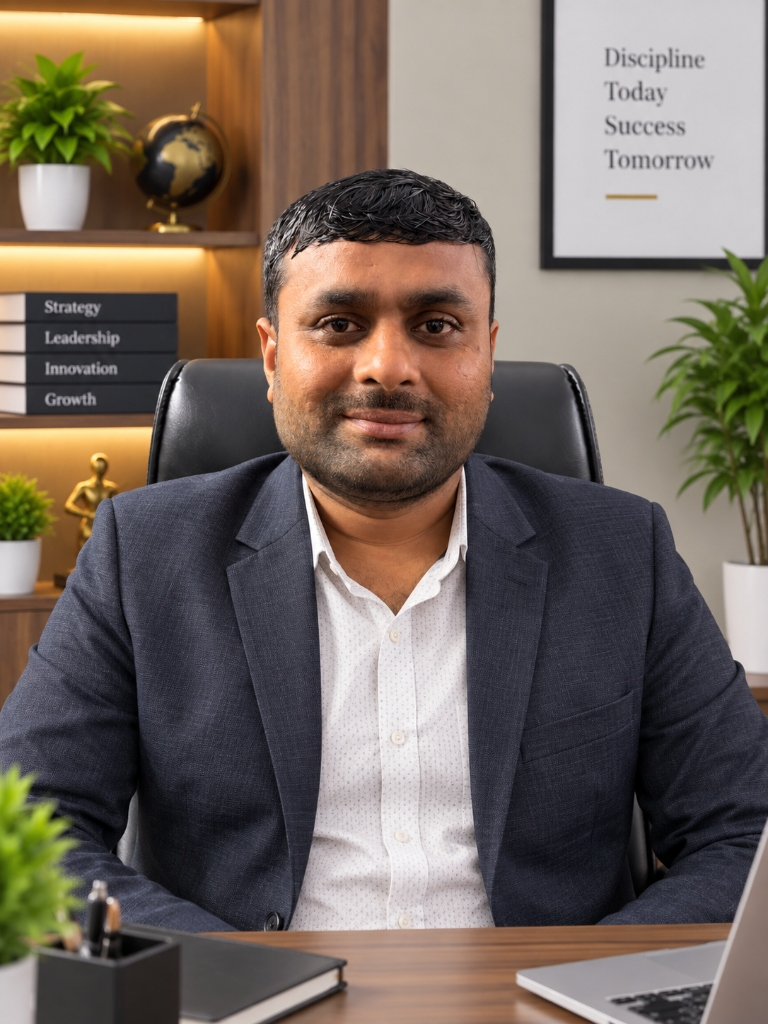
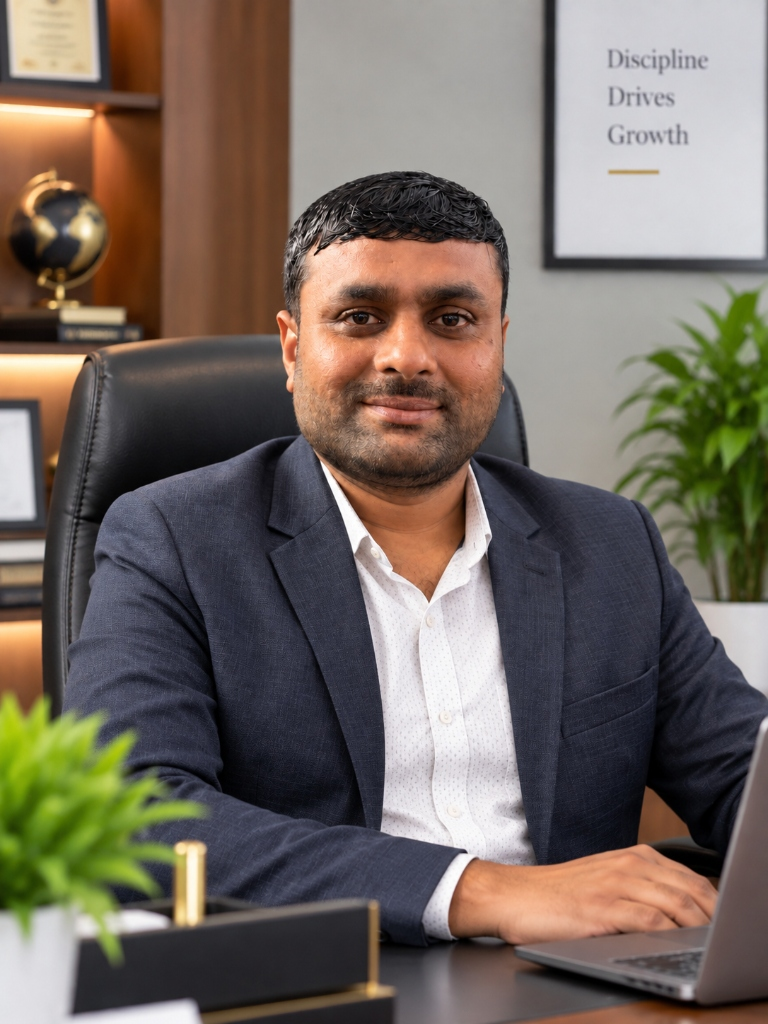
Update team portraits for Bhavarth Hapani, Dinesh Bhuva, Dhrupal Rangani, and Utkarsh Mishra

diff --git a/management.html b/management.html
@@ -12,7 +12,7 @@
 <meta http-equiv="Cache-Control" content="no-cache, no-store, must-revalidate">
 <meta http-equiv="Pragma" content="no-cache">
 <meta http-equiv="Expires" content="0">
-<link rel="stylesheet" href="styles.css?v=110">
+<link rel="stylesheet" href="styles.css?v=111">
 </head>
 <body>
 
@@ -198,7 +198,7 @@
 
     <div class="team-arch-card">
      <div class="team-photo-frame" tabindex="0">
-      <img src="images/team-dinesh-bhuva.jpg?v=4" alt="Mr. Dinesh Bhuva" class="team-photo-img" onerror="this.classList.add('is-hidden')">
+      <img src="images/team-dinesh-bhuva.jpg?v=5" alt="Mr. Dinesh Bhuva" class="team-photo-img" onerror="this.classList.add('is-hidden')">
       <div class="team-photo-placeholder" aria-hidden="true">
        <span class="avatar-badge-arch">DB</span>
       </div>
@@ -221,7 +221,7 @@
 
     <div class="team-arch-card">
      <div class="team-photo-frame" tabindex="0">
-      <img src="images/team-bhavarth-hapani.jpg?v=2" alt="Mr. Bhavarth Hapani" class="team-photo-img" onerror="this.classList.add('is-hidden')">
+      <img src="images/team-bhavarth-hapani.jpg?v=5" alt="Mr. Bhavarth Hapani" class="team-photo-img" onerror="this.classList.add('is-hidden')">
       <div class="team-photo-placeholder" aria-hidden="true">
        <span class="avatar-badge-arch">BH</span>
       </div>
@@ -267,7 +267,7 @@
 
     <div class="team-arch-card">
      <div class="team-photo-frame" tabindex="0">
-      <img src="images/team-dhrupal-rangani.jpg?v=4" alt="Mr. Dhrupal Rangani" class="team-photo-img" onerror="this.classList.add('is-hidden')">
+      <img src="images/team-dhrupal-rangani.jpg?v=5" alt="Mr. Dhrupal Rangani" class="team-photo-img" onerror="this.classList.add('is-hidden')">
       <div class="team-photo-placeholder" aria-hidden="true">
        <span class="avatar-badge-arch">DR</span>
       </div>
@@ -290,14 +290,14 @@
 
     <div class="team-arch-card">
      <div class="team-photo-frame" tabindex="0">
-      <img src="images/team-utkarsh-misra.jpg?v=1" alt="Mr. Utkarsh Misra" class="team-photo-img" onerror="this.classList.add('is-hidden')">
+      <img src="images/team-utkarsh-misra.jpg?v=5" alt="Mr. Utkarsh Mishra" class="team-photo-img" onerror="this.classList.add('is-hidden')">
       <div class="team-photo-placeholder" aria-hidden="true">
        <span class="avatar-badge-arch">UM</span>
       </div>
       <div class="team-photo-overlay">
        <div class="movie-credits-track">
         <span class="movie-badge">ACCOUNTING &amp; DISPATCH</span>
-        <h5 class="movie-person-name">Mr. Utkarsh Misra</h5>
+        <h5 class="movie-person-name">Mr. Utkarsh Mishra</h5>
         <span class="movie-person-role">Accountant cum Dispatch Incharge (Yarn segment)</span>
         <div class="movie-line"></div>
         <p class="movie-bio-text">Managing financial records, accounting entries, invoicing, and logistics operations for the Yarn Segment.</p>
@@ -307,7 +307,7 @@
      </div>
      <div class="team-arch-meta">
       <span class="team-arch-role">Accountant cum Dispatch Incharge (Yarn segment)</span>
-      <h4 class="team-arch-name">Mr. Utkarsh Misra</h4>
+      <h4 class="team-arch-name">Mr. Utkarsh Mishra</h4>
      </div>
     </div>
 
@@ -440,7 +440,7 @@
  </div>
 </footer>
 
-<script src="main.js?v=110"></script>
+<script src="main.js?v=111"></script>
 <!-- FLOATING WHATSAPP CHAT BUTTON (+91 97275 64411) -->
 <a href="https://wa.me/919727564411" target="_blank" rel="noopener noreferrer" class="whatsapp-float-btn" aria-label="Chat with Sahjanand on WhatsApp (+91 97275 64411)" title="Chat on WhatsApp (+91 97275 64411)">
  <span class="wa-pulse" aria-hidden="true"></span>

diff --git a/contact.html b/contact.html
@@ -12,7 +12,7 @@
 <meta http-equiv="Cache-Control" content="no-cache, no-store, must-revalidate">
 <meta http-equiv="Pragma" content="no-cache">
 <meta http-equiv="Expires" content="0">
-<link rel="stylesheet" href="styles.css?v=110">
+<link rel="stylesheet" href="styles.css?v=111">
 </head>
 <body>
 
@@ -375,7 +375,7 @@
  </div>
 </footer>
 
-<script src="main.js?v=110"></script>
+<script src="main.js?v=111"></script>
 <!-- FLOATING WHATSAPP CHAT BUTTON (+91 97275 64411) -->
 <a href="https://wa.me/919727564411" target="_blank" rel="noopener noreferrer" class="whatsapp-float-btn" aria-label="Chat with Sahjanand on WhatsApp (+91 97275 64411)" title="Chat on WhatsApp (+91 97275 64411)">
  <span class="wa-pulse" aria-hidden="true"></span>

diff --git a/infrastructure.html b/infrastructure.html
@@ -12,7 +12,7 @@
 <meta http-equiv="Cache-Control" content="no-cache, no-store, must-revalidate">
 <meta http-equiv="Pragma" content="no-cache">
 <meta http-equiv="Expires" content="0">
-<link rel="stylesheet" href="styles.css?v=110">
+<link rel="stylesheet" href="styles.css?v=111">
 </head>
 <body>
 
@@ -325,7 +325,7 @@
  </div>
 </footer>
 
-<script src="main.js?v=110"></script>
+<script src="main.js?v=111"></script>
 <!-- FLOATING WHATSAPP CHAT BUTTON (+91 97275 64411) -->
 <a href="https://wa.me/919727564411" target="_blank" rel="noopener noreferrer" class="whatsapp-float-btn" aria-label="Chat with Sahjanand on WhatsApp (+91 97275 64411)" title="Chat on WhatsApp (+91 97275 64411)">
  <span class="wa-pulse" aria-hidden="true"></span>

diff --git a/milestones.html b/milestones.html
@@ -12,7 +12,7 @@
 <meta http-equiv="Cache-Control" content="no-cache, no-store, must-revalidate">
 <meta http-equiv="Pragma" content="no-cache">
 <meta http-equiv="Expires" content="0">
-<link rel="stylesheet" href="styles.css?v=110">
+<link rel="stylesheet" href="styles.css?v=111">
 </head>
 <body>
 
@@ -671,7 +671,7 @@
  </div>
 </footer>
 
-<script src="main.js?v=110"></script>
+<script src="main.js?v=111"></script>
 <!-- FLOATING WHATSAPP CHAT BUTTON (+91 97275 64411) -->
 <a href="https://wa.me/919727564411" target="_blank" rel="noopener noreferrer" class="whatsapp-float-btn" aria-label="Chat with Sahjanand on WhatsApp (+91 97275 64411)" title="Chat on WhatsApp (+91 97275 64411)">
  <span class="wa-pulse" aria-hidden="true"></span>

diff --git a/products.html b/products.html
@@ -12,7 +12,7 @@
 <meta http-equiv="Cache-Control" content="no-cache, no-store, must-revalidate">
 <meta http-equiv="Pragma" content="no-cache">
 <meta http-equiv="Expires" content="0">
-<link rel="stylesheet" href="styles.css?v=110">
+<link rel="stylesheet" href="styles.css?v=111">
 </head>
 <body>
 
@@ -804,7 +804,7 @@
  </div>
 </footer>
 
-<script src="main.js?v=110"></script>
+<script src="main.js?v=111"></script>
 <!-- FLOATING WHATSAPP CHAT BUTTON (+91 97275 64411) -->
 <a href="https://wa.me/919727564411" target="_blank" rel="noopener noreferrer" class="whatsapp-float-btn" aria-label="Chat with Sahjanand on WhatsApp (+91 97275 64411)" title="Chat on WhatsApp (+91 97275 64411)">
  <span class="wa-pulse" aria-hidden="true"></span>

diff --git a/index.html b/index.html
@@ -12,7 +12,7 @@
 <meta http-equiv="Cache-Control" content="no-cache, no-store, must-revalidate">
 <meta http-equiv="Pragma" content="no-cache">
 <meta http-equiv="Expires" content="0">
-<link rel="stylesheet" href="styles.css?v=110">
+<link rel="stylesheet" href="styles.css?v=111">
 </head>
 <body>
 
@@ -1266,7 +1266,7 @@
  </div>
 </div>
 
-<script src="main.js?v=110"></script>
+<script src="main.js?v=111"></script>
 <!-- FLOATING WHATSAPP CHAT BUTTON (+91 97275 64411) -->
 <a href="https://wa.me/919727564411" target="_blank" rel="noopener noreferrer" class="whatsapp-float-btn" aria-label="Chat with Sahjanand on WhatsApp (+91 97275 64411)" title="Chat on WhatsApp (+91 97275 64411)">
  <span class="wa-pulse" aria-hidden="true"></span>

diff --git a/investors.html b/investors.html
@@ -13,7 +13,7 @@
 <meta http-equiv="Pragma" content="no-cache">
 <meta http-equiv="refresh" content="0; url=./">
 <script>window.location.replace('./');</script>
-<link rel="stylesheet" href="styles.css?v=110">
+<link rel="stylesheet" href="styles.css?v=111">
 </head>
 <body>
 
@@ -298,7 +298,7 @@
  </div>
 </footer>
 
-<script src="main.js?v=110"></script>
+<script src="main.js?v=111"></script>
 <!-- FLOATING WHATSAPP CHAT BUTTON (+91 97275 64411) -->
 <a href="https://wa.me/919727564411" target="_blank" rel="noopener noreferrer" class="whatsapp-float-btn" aria-label="Chat with Sahjanand on WhatsApp (+91 97275 64411)" title="Chat on WhatsApp (+91 97275 64411)">
  <span class="wa-pulse" aria-hidden="true"></span>
